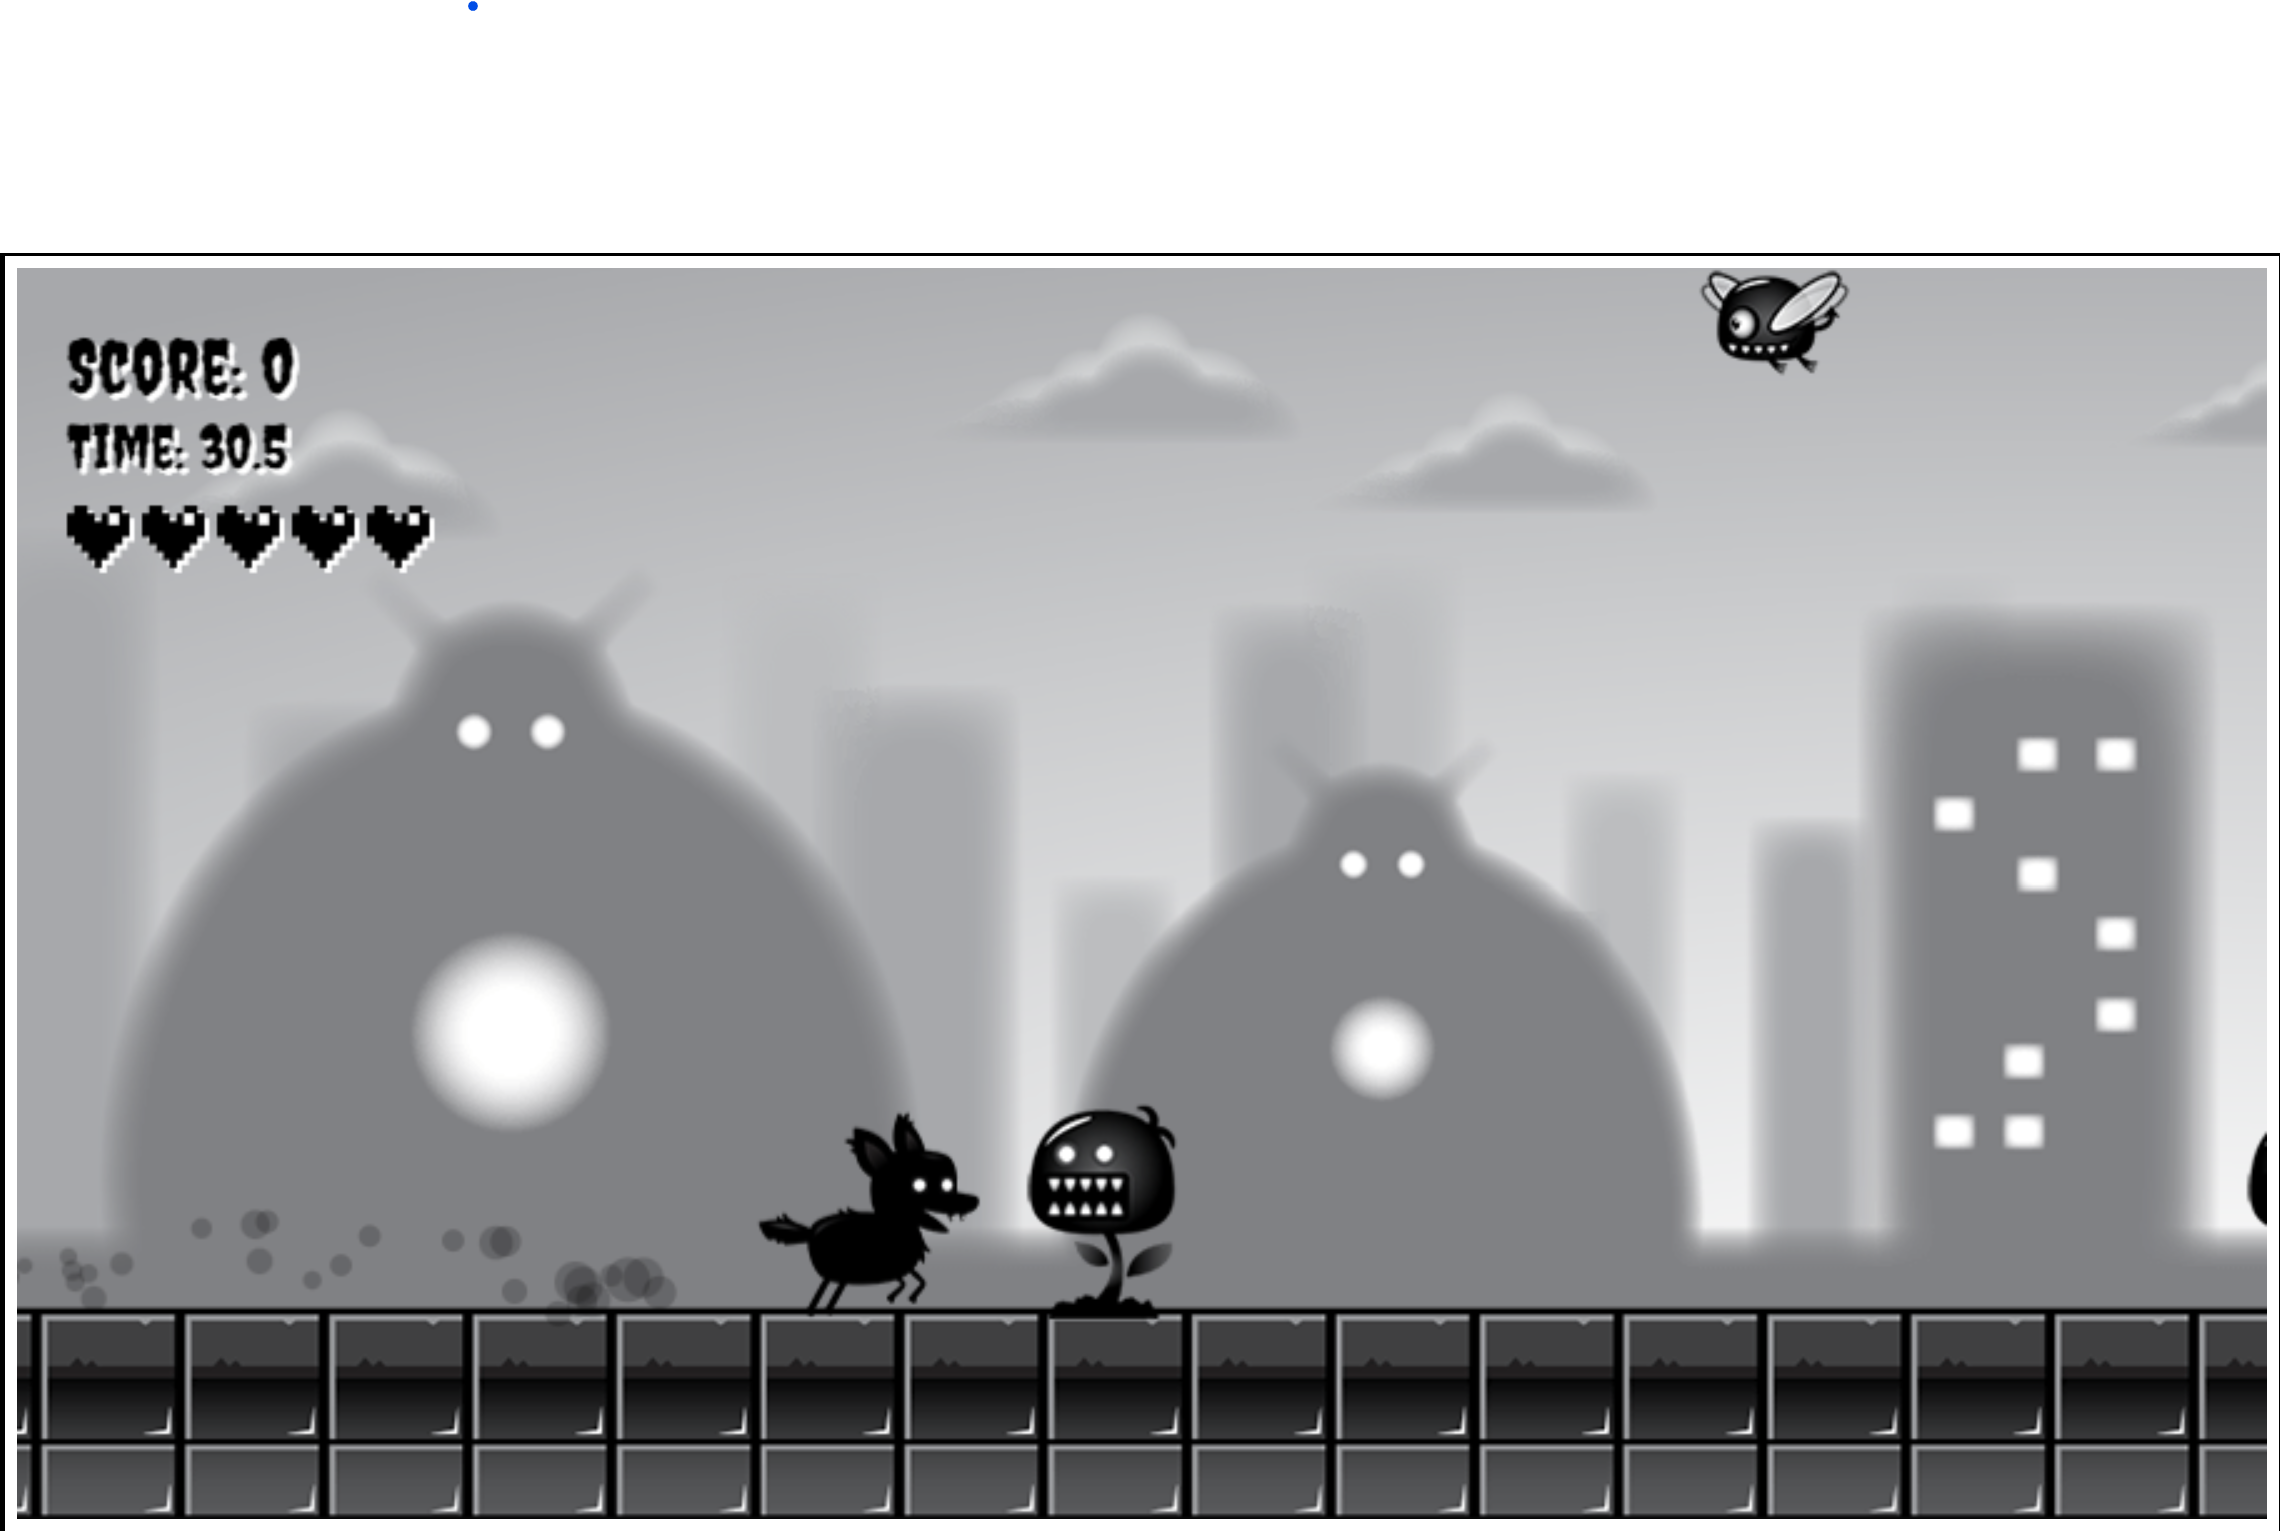
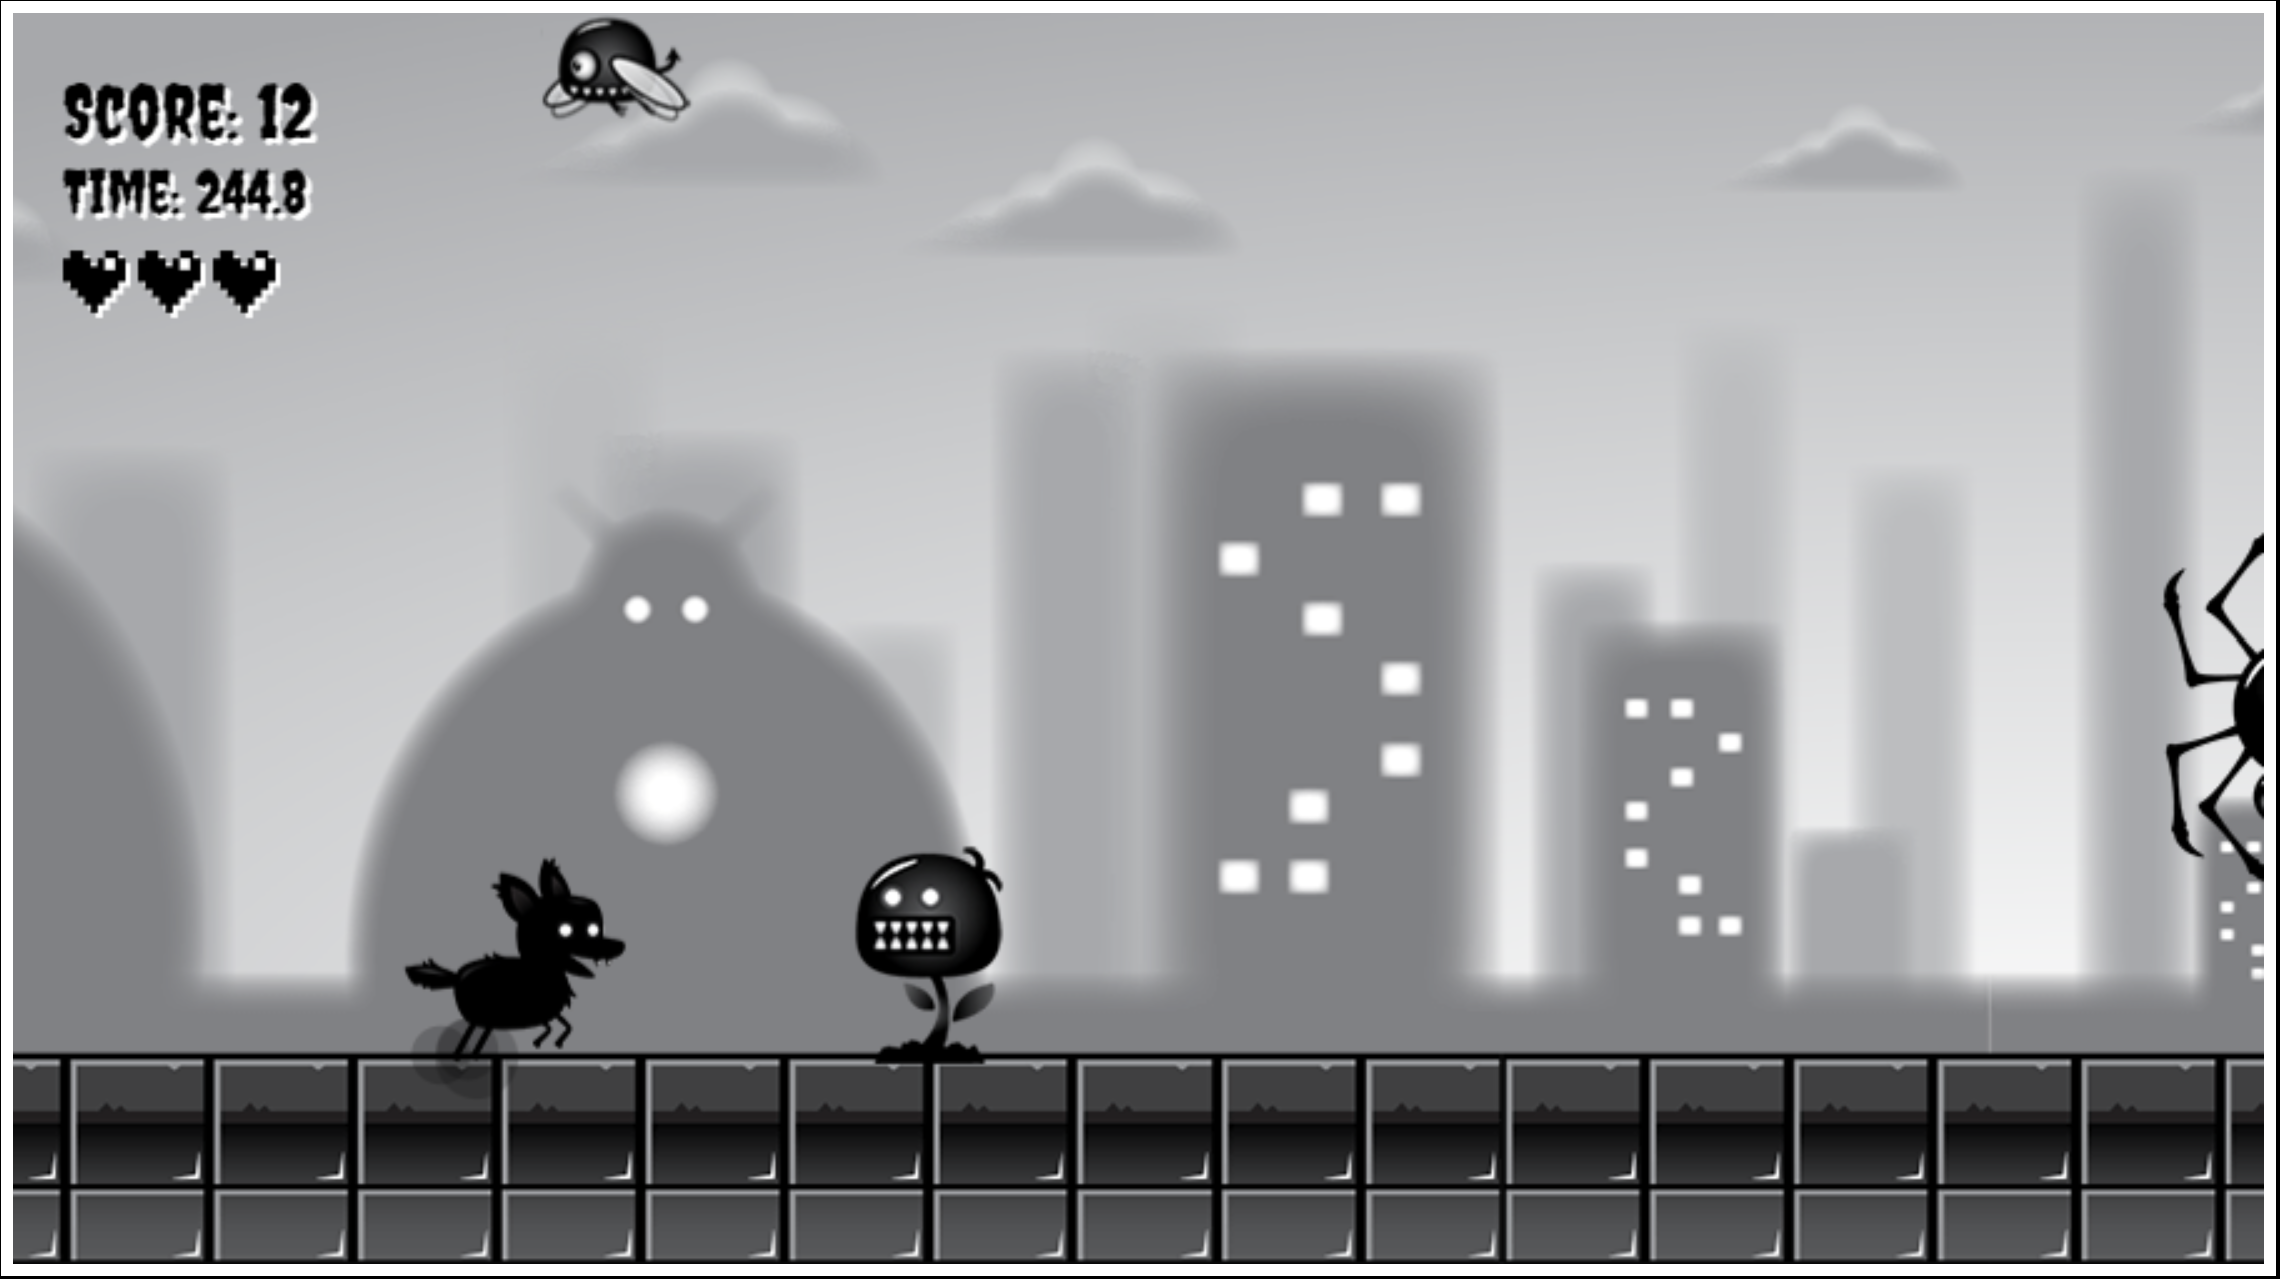
feat: enemy hit added to readme

diff --git a/README.md b/README.md
@@ -22,6 +22,8 @@ This is the codealong endless runner game for the [JavaScript Game Development C
 
 ![preview](https://github.com/lsegg/javascript-game-development-course-for-beginners/blob/main/assets/preview.png?raw=true)
 
+![preview_enemy_hit](https://github.com/lsegg/javascript-game-development-course-for-beginners/blob/main/assets/preview-enemy-hit.png?raw=true)
+
 ![preview_game_over](https://github.com/lsegg/javascript-game-development-course-for-beginners/blob/main/assets/preview-game-over.png?raw=true)
 
 ## Requirements ⚙
